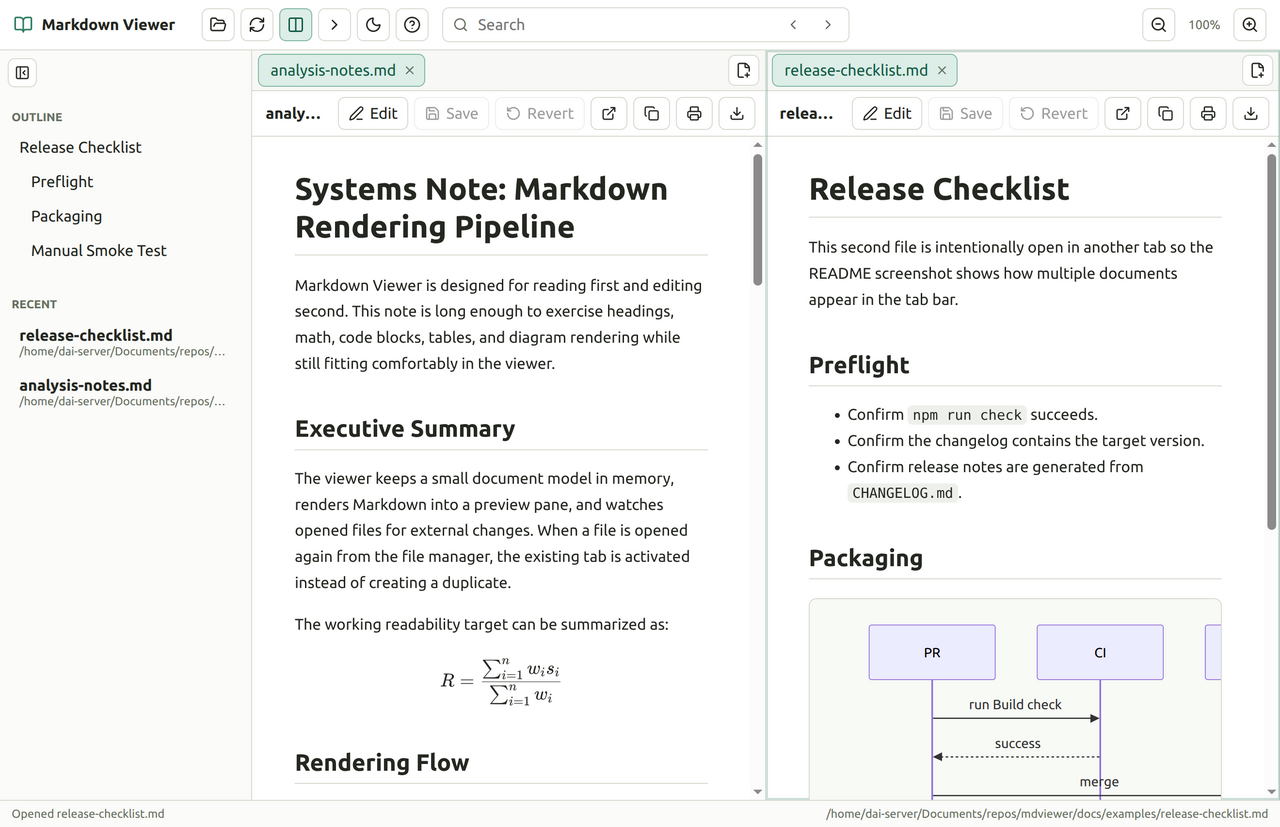
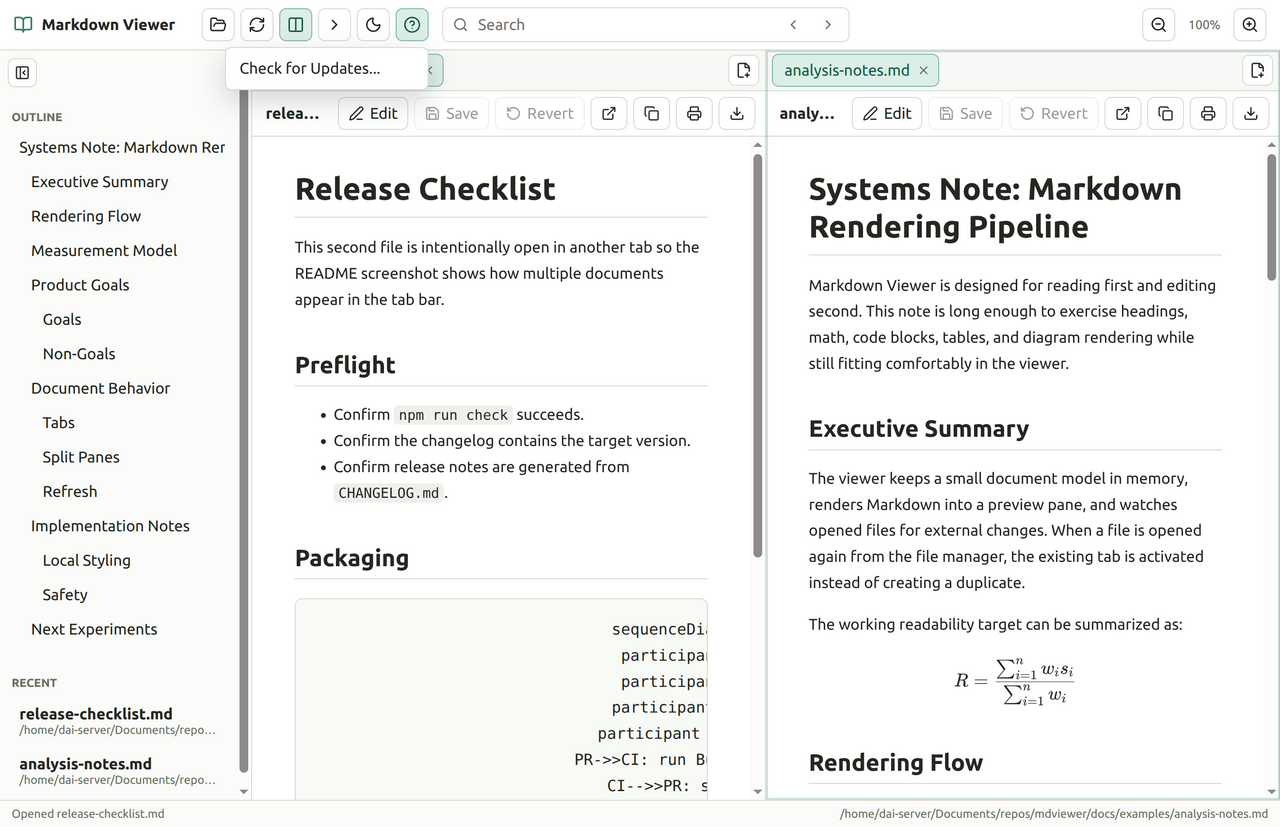
Add Windows release packaging

diff --git a/README.md b/README.md
@@ -1,10 +1,10 @@
 # Markdown Viewer
 
-Markdown Viewer is a desktop Markdown viewer for Linux and macOS. It focuses on reading Markdown files quickly, while still offering light editing when needed.
+Markdown Viewer is a desktop Markdown viewer for Linux and Windows, with macOS available from source. It focuses on reading Markdown files quickly, while still offering light editing when needed.
 
 ## Screenshot
 
-![Markdown Viewer showing a Markdown document with tabs, outline navigation, LaTeX math, and a Mermaid diagram](docs/screenshot.png)
+![Markdown Viewer showing split panes, tabs, outline navigation, rendered math, and the Help update menu](docs/screenshot.png)
 
 ## Features
 
@@ -50,21 +50,29 @@ chmod +x Markdown-Viewer-<version>-linux-x86_64.AppImage
 
 Some desktops also let you run it by double-clicking after you mark it executable. Use the `.deb` package if you want normal desktop installation and file association metadata.
 
+### Windows
+
+Download `Markdown-Viewer-<version>-win-x64.exe` from GitHub Releases and run the installer. The installer sets up Markdown Viewer and registers Markdown file associations; Windows may still require you to choose Markdown Viewer once from **Open with**.
+
+Note: Windows installers are currently unsigned, so Windows SmartScreen may ask you to confirm before running the installer.
+
 ### macOS
 
-Download the `.dmg`, open it, and drag **Markdown Viewer** into **Applications**. Launch it from Applications or by using **Open With** on a Markdown file.
+macOS binary packages are not published at this time because signed and notarized packages are required for reliable distribution and updates. Use the source archive from GitHub Releases or clone the repository and run it locally:
 
-The macOS package declares Markdown file support, but it does not necessarily become the default handler automatically. To make it the default, select a `.md` file in Finder, choose **Get Info**, set **Open with** to Markdown Viewer, then choose **Change All**.
-
-Note: macOS builds are currently unsigned. You may need to allow the app manually in macOS security settings until signed and notarized packages are available.
+```bash
+npm install
+npm run build
+npm start
+```
 
 ## Updates
 
-Installed packaged builds check GitHub Releases on startup. When a newer version is available, Markdown Viewer asks once before downloading it, installing it, and restarting. You can skip a specific version from the startup prompt so it is not shown again automatically.
+Installed Linux and Windows builds check GitHub Releases on startup. When a newer version is available, Markdown Viewer asks once before downloading it, installing it, and restarting. You can skip a specific version from the startup prompt so it is not shown again automatically.
 
 You can also use **Help > Check for Updates...** to check manually from the native menu or the in-app Help button. Manual update checks ask once before downloading, installing, and restarting. Update checks are disabled in local development runs.
 
-Note: reliable macOS auto-update requires signed packages. Current unsigned macOS builds may still require manual replacement from GitHub Releases.
+macOS source runs do not use the in-app updater.
 
 ## Development
 

diff --git a/CHANGELOG.md b/CHANGELOG.md
@@ -8,11 +8,13 @@
 - Added tab context menu actions for **Split Left**, **Split Right**, moving to the other pane, and closing the tab.
 - Added an in-app **Help** menu with **Check for Updates...** for environments where the native menu is hidden.
 - Added update prompt support for skipping a specific available version during startup checks.
+- Added Windows x64 NSIS installer packaging for GitHub Releases.
 
 ### Changed
 
 - Manual and startup update installs now use a single confirmation before downloading, installing, and restarting.
 - PDF export now defaults to the active Markdown document name, ensures a `.pdf` extension, and exports the active document content instead of the app chrome.
+- Release publishing now builds Linux and Windows artifacts only; macOS is source-only until signed and notarized packages are available.
 
 ## v0.1.6 - 2026-06-30
 